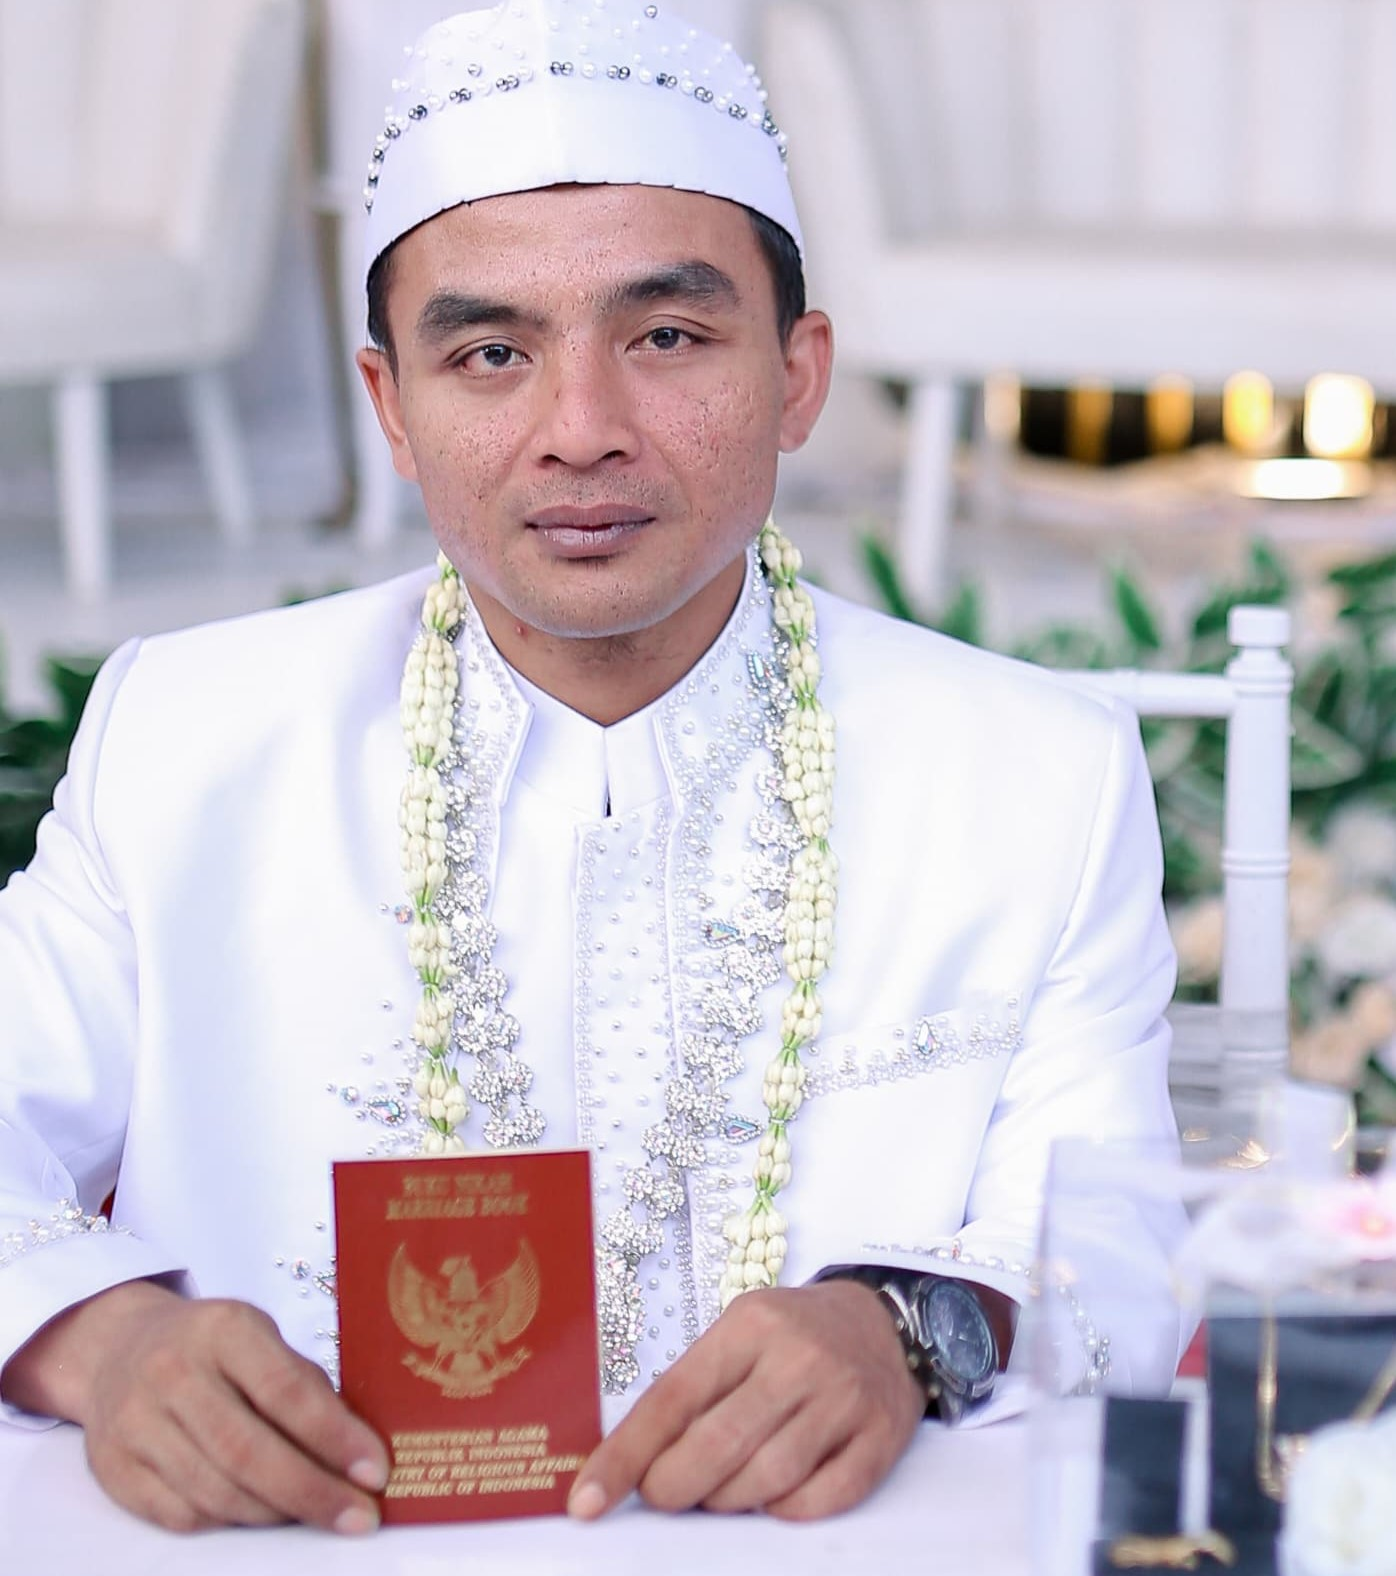
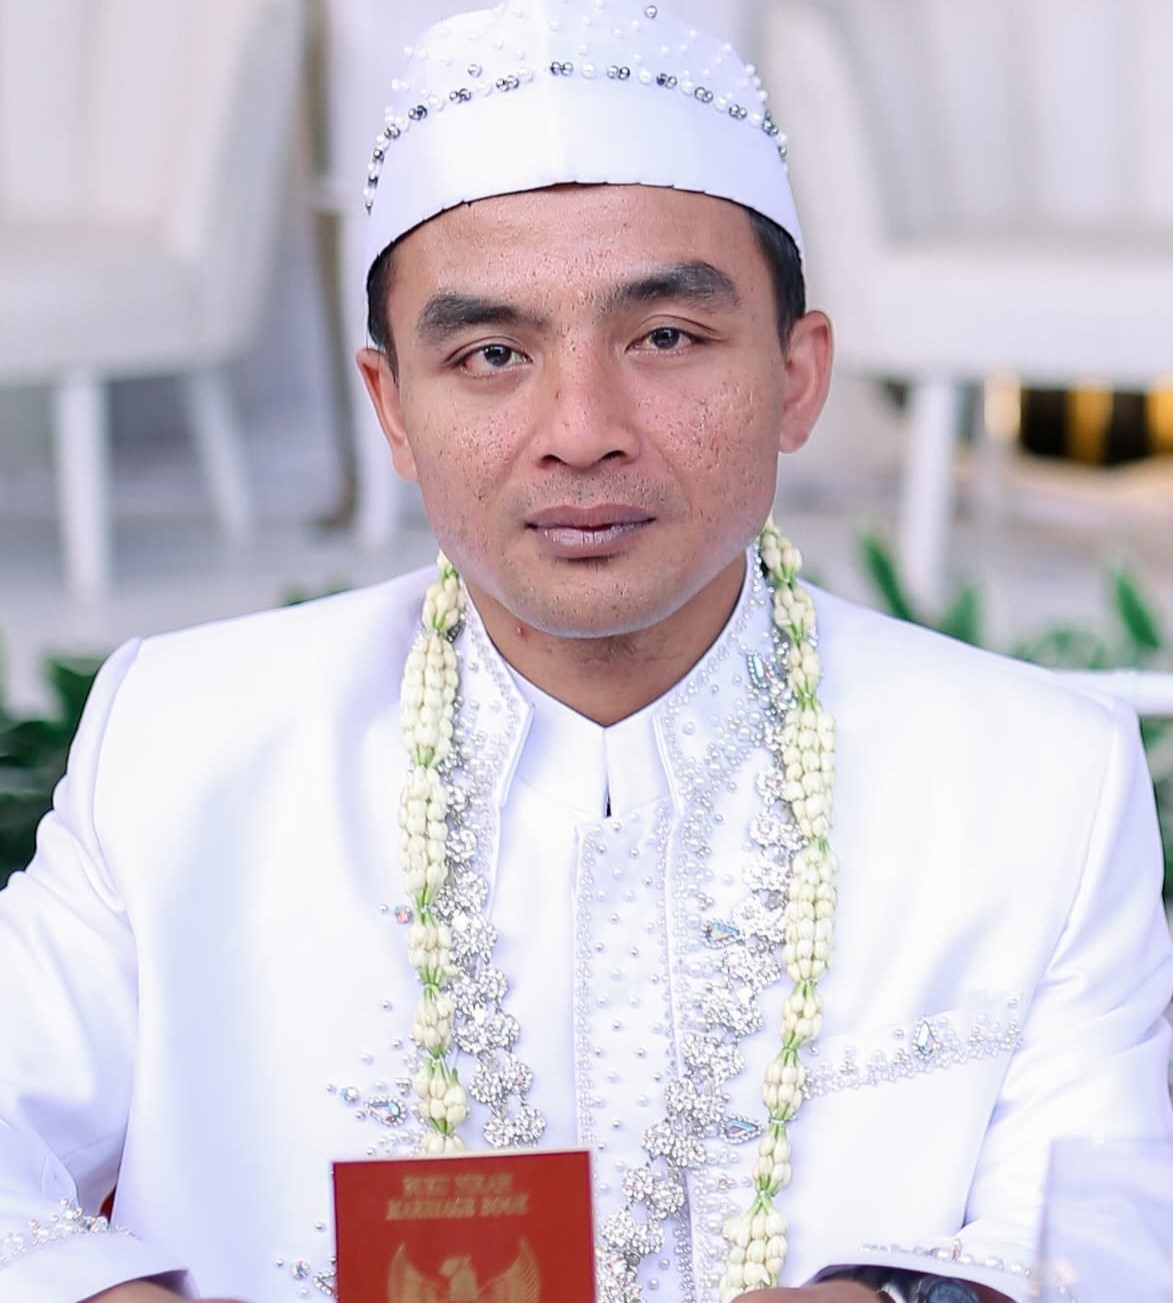
final commit

diff --git a/index.html b/index.html
@@ -75,7 +75,9 @@
                 <h1 class="font-estetik my-4" style="font-size: 2.2rem;">Undangan Pernikahan</h1>
                 <div class="py-4">
                     <div class="cropper border border-3 border-light shadow mx-auto">
-                        <img src="assets/images/image (2).jpeg" style="background-size: cover;" alt="bg" onclick="modalFoto(this)">
+                        <img src="assets/images/images (2).jpeg" style="background-size: cover;
+                        background-position: center; 
+                        background-repeat: no-repeat;" alt="bg" onclick="modalFoto(this)">
                     </div>
                 </div>
                 <h1 class="font-estetik my-4" style="font-size: 3rem;">Agus Afandi <br> & <br>Endang Ratnaningsih</h1>
@@ -117,7 +119,7 @@
 
                     <div data-aos="fade-left" data-aos-duration="2000">
                         <div class="cropper border border-3 border-light shadow my-4 mx-auto">
-                            <img src="assets/images/endangg.jpeg" alt="bg" onclick="modalFoto(this)">
+                            <img src="assets/images/endang.jpeg" alt="bg" onclick="modalFoto(this)">
                         </div>
                         <h1 class="font-estetik" style="font-size: 3rem;">Endang Ratnaningsih</h1>
                         <h5 class="mt-3 mb-0">Putri ke-2</h5>
@@ -425,7 +427,7 @@
                     <div class="text-center">
                         <h1 class="font-estetik mb-4" style="font-size: 2.2rem;">The Wedding Of</h1>
                         <div class="cropper border border-3 border-light shadow mb-4 mx-auto">
-                            <img src="assets/images/bg.jpeg" alt="bg">
+                            <img src="assets/images/images (2).jpeg" alt="bg">
                         </div>
                         <h1 class="font-estetik my-4" style="font-size: 2.5rem;">Agus Afandi <br> & <br> Endang Ratnaningsih</h1>
                         <div id="namatamu"></div>
